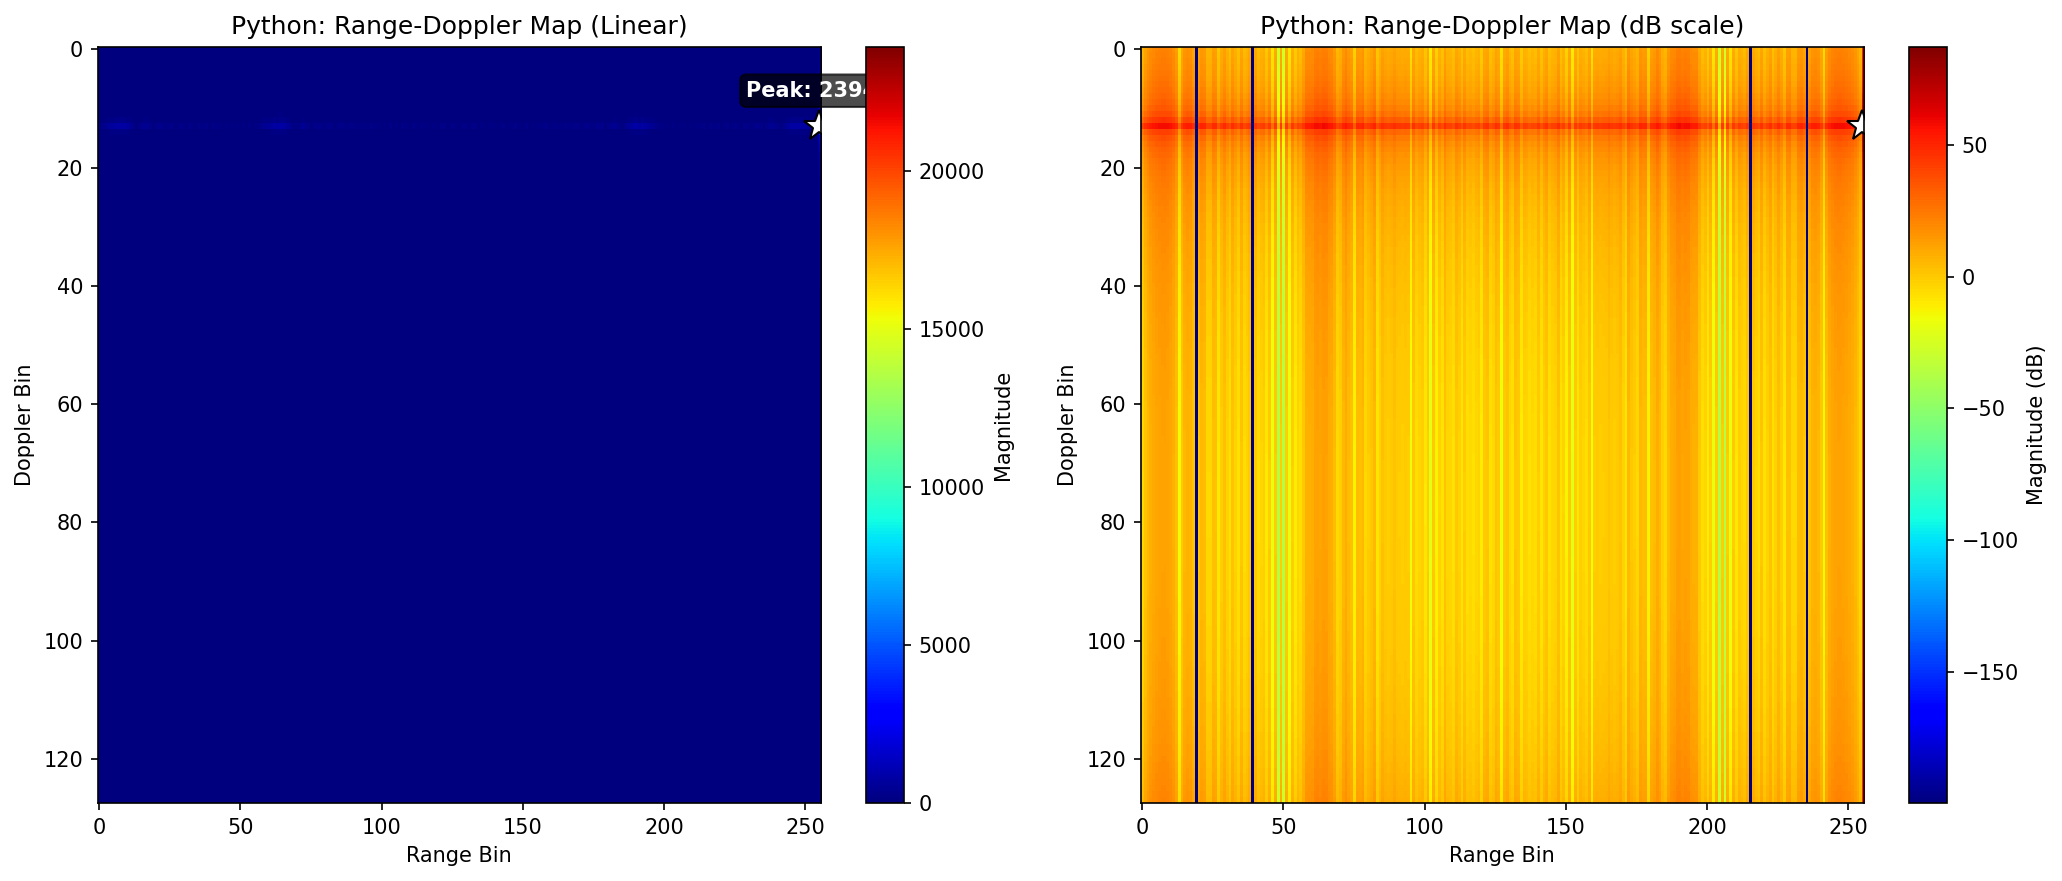
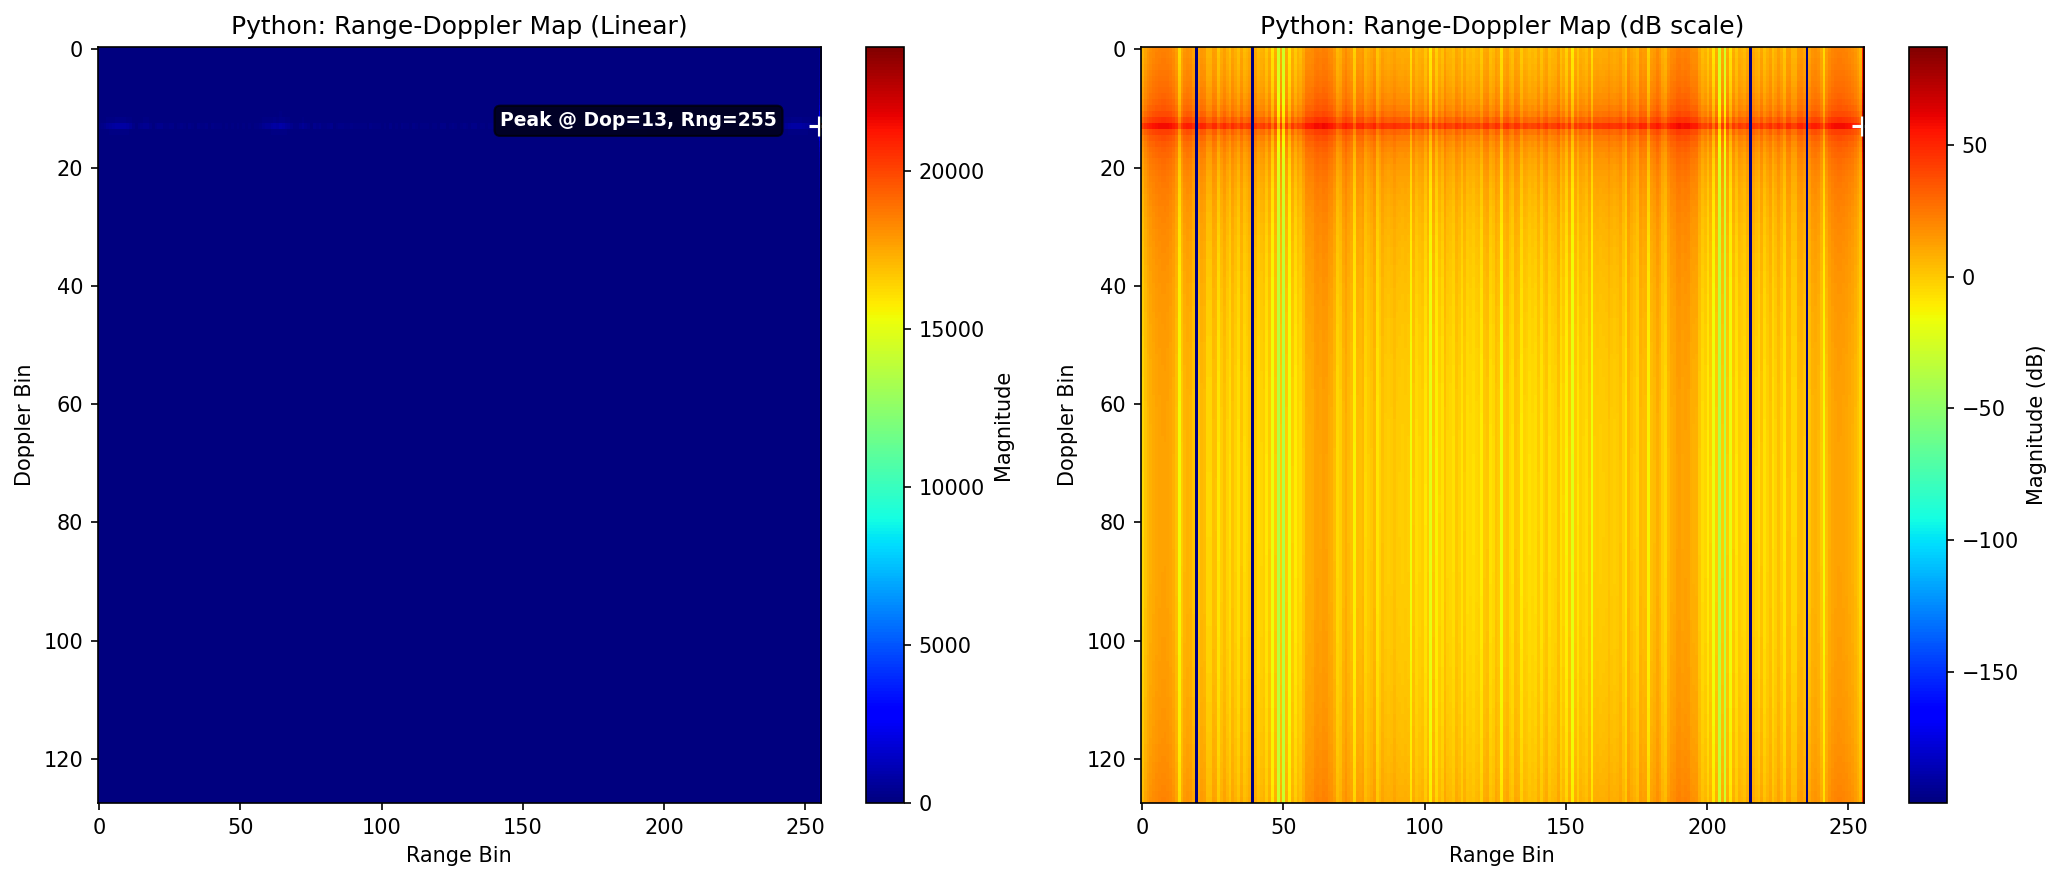
Improve target marker visibility by using smaller + marker instead of large X

Changed region(s): [[0.2173, 0.0613, 0.4345, 0.1532]]

diff --git a/examples/generate_python_plots.py b/examples/generate_python_plots.py
@@ -149,9 +149,9 @@ plt.colorbar(im1, ax=ax1, label='Magnitude')
 # Mark peak
 max_val = magnitude.max()
 max_idx = np.unravel_index(np.argmax(magnitude), magnitude.shape)
-ax1.plot(max_idx[1], max_idx[0], 'w*', markersize=15, markeredgecolor='k')
-ax1.text(max_idx[1], max_idx[0] - 5, f'Peak: {max_val:.0f}', 
-         color='white', ha='center', fontweight='bold',
+ax1.plot(max_idx[1], max_idx[0], 'w+', markersize=10, markeredgewidth=1.5)
+ax1.text(max_idx[1] - 15, max_idx[0], f'Peak @ Dop={max_idx[0]}, Rng={max_idx[1]}', 
+         color='white', ha='right', fontsize=9, fontweight='bold',
          bbox=dict(boxstyle='round', facecolor='black', alpha=0.7))
 
 # dB scale
@@ -163,7 +163,7 @@ ax2.set_title('Python: Range-Doppler Map (dB scale)')
 plt.colorbar(im2, ax=ax2, label='Magnitude (dB)')
 
 # Mark peak
-ax2.plot(max_idx[1], max_idx[0], 'w*', markersize=15, markeredgecolor='k')
+ax2.plot(max_idx[1], max_idx[0], 'w+', markersize=10, markeredgewidth=1.5)
 
 plt.tight_layout()
 plt.savefig('python_04_range_doppler_map.png', dpi=150, bbox_inches='tight')

diff --git a/examples/generate_rust_plots.py b/examples/generate_rust_plots.py
@@ -165,9 +165,9 @@ plt.colorbar(im1, ax=ax1, label='Magnitude')
 
 # Find and mark peak
 peak_idx = np.unravel_index(np.argmax(np.abs(range_doppler)), range_doppler.shape)
-ax1.plot(peak_idx[1], peak_idx[0], 'wx', markersize=15, markeredgewidth=2, 
-         label=f'Peak @ Doppler={peak_idx[0]}, Range={peak_idx[1]}')
-ax1.legend()
+ax1.plot(peak_idx[1], peak_idx[0], 'w+', markersize=10, markeredgewidth=1.5, 
+         label=f'Peak @ Dop={peak_idx[0]}, Rng={peak_idx[1]}')
+ax1.legend(fontsize=9)
 
 # dB scale
 rd_db = 20 * np.log10(np.abs(range_doppler) + 1e-10)
@@ -176,7 +176,7 @@ ax2.set_xlabel('Range Bin')
 ax2.set_ylabel('Doppler Bin')
 ax2.set_title('Rust: Range-Doppler Map (dB Scale)')
 plt.colorbar(im2, ax=ax2, label='Magnitude (dB)')
-ax2.plot(peak_idx[1], peak_idx[0], 'wx', markersize=15, markeredgewidth=2)
+ax2.plot(peak_idx[1], peak_idx[0], 'w+', markersize=10, markeredgewidth=1.5)
 
 plt.tight_layout()
 plt.savefig('rust_04_range_doppler_map.png', dpi=150, bbox_inches='tight')

diff --git a/examples/radar_demo.rs b/examples/radar_demo.rs
@@ -43,7 +43,7 @@ fn lfm_generator(_inputs: &HashMap<String, GraphData>, params: &HashMap<String, 
     // Generate LFM pulse with rectangular envelope
     let chirp_rate = bandwidth / pulse_width;
     
-    let pulse_start = (num_samples as f64 * 0.2) as usize; // Start at 20%
+    let pulse_start = (num_samples as f64 * 0.15) as usize; // Start at 15% so peak appears mid-range
     let pulse_samples = (pulse_width * sample_rate) as usize;
     let pulse_end = (pulse_start + pulse_samples).min(num_samples);
     

diff --git a/examples/python_radar_demo.py b/examples/python_radar_demo.py
@@ -37,7 +37,7 @@ def lfm_generator(inputs, variant_params):
     
     # Create rectangular pulse envelope
     pulse_envelope = np.zeros(num_samples)
-    pulse_start = int(num_samples * 0.2)  # Start at 20% of samples
+    pulse_start = int(num_samples * 0.15)  # Start at 15% so peak appears mid-range
     pulse_end = pulse_start + int(pulse_width * sample_rate)  # Pulse duration
     pulse_envelope[pulse_start:pulse_end] = 1.0
     
